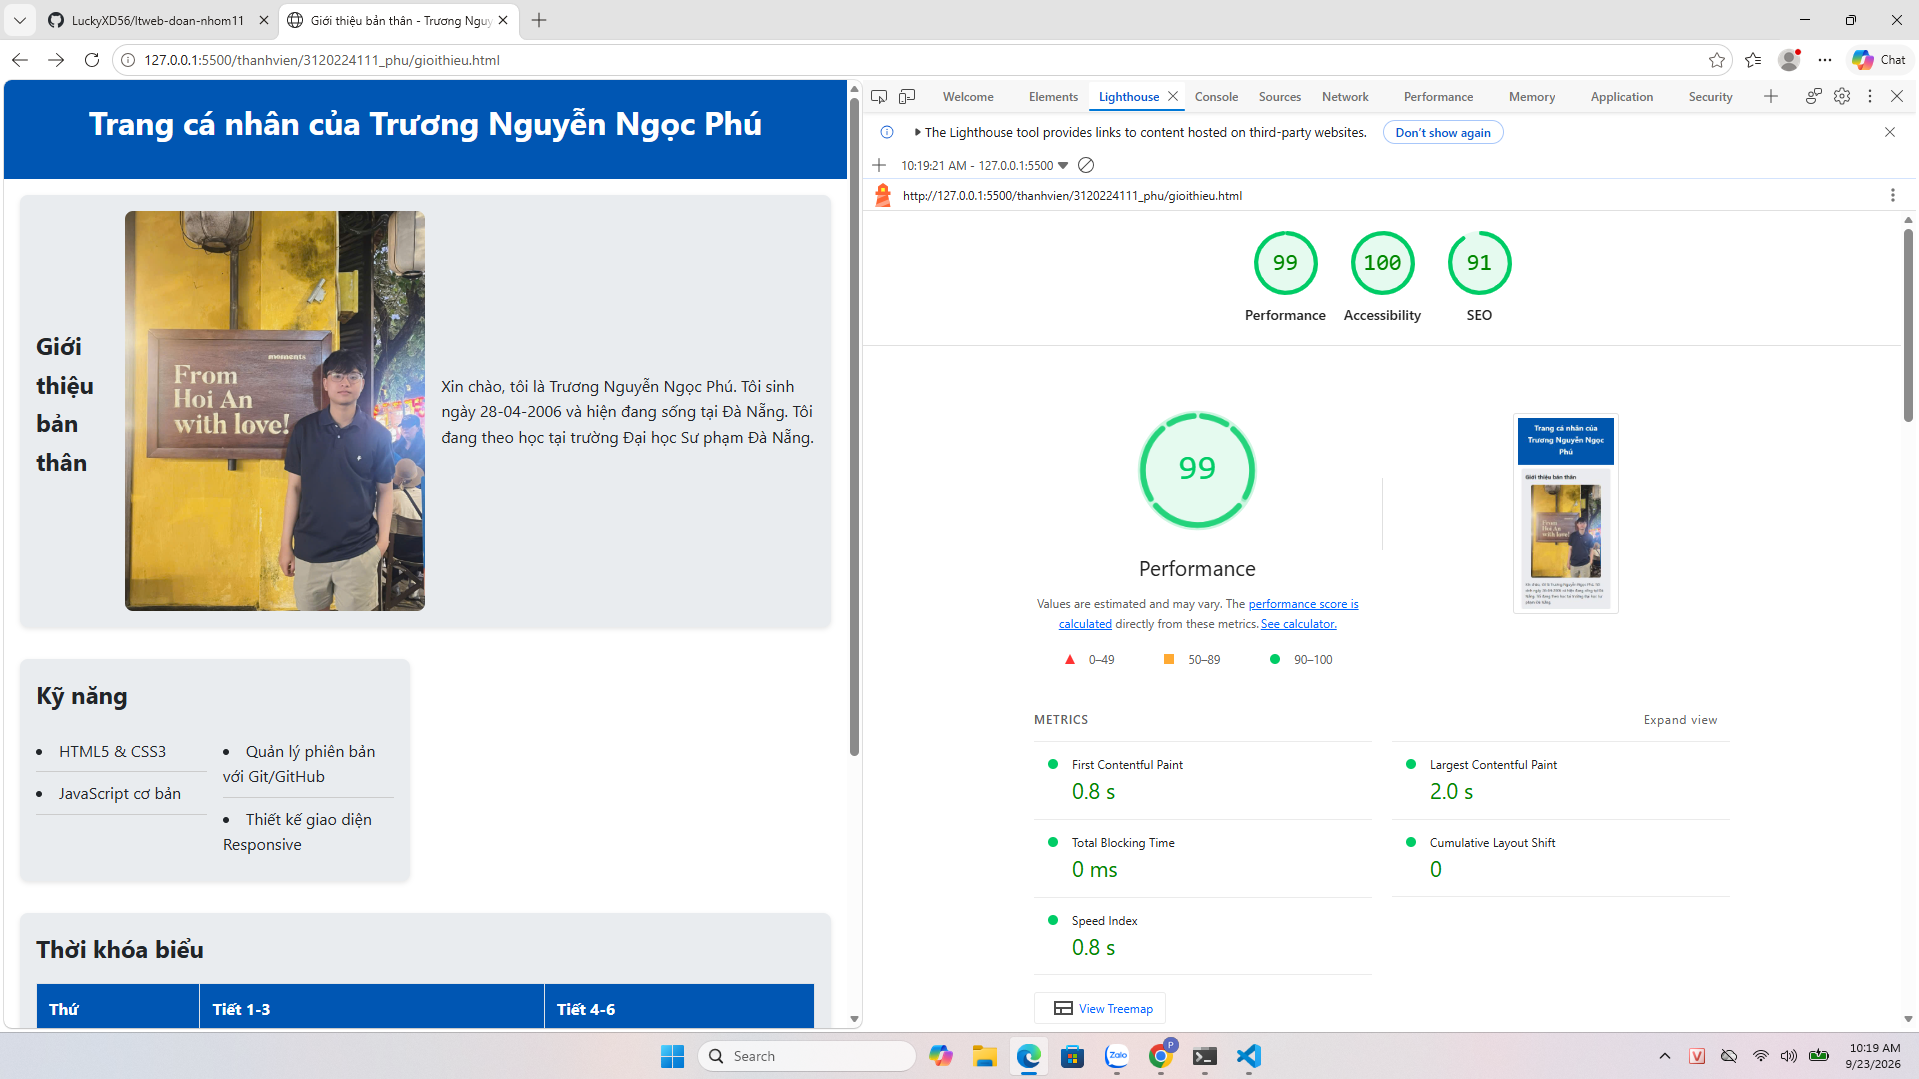
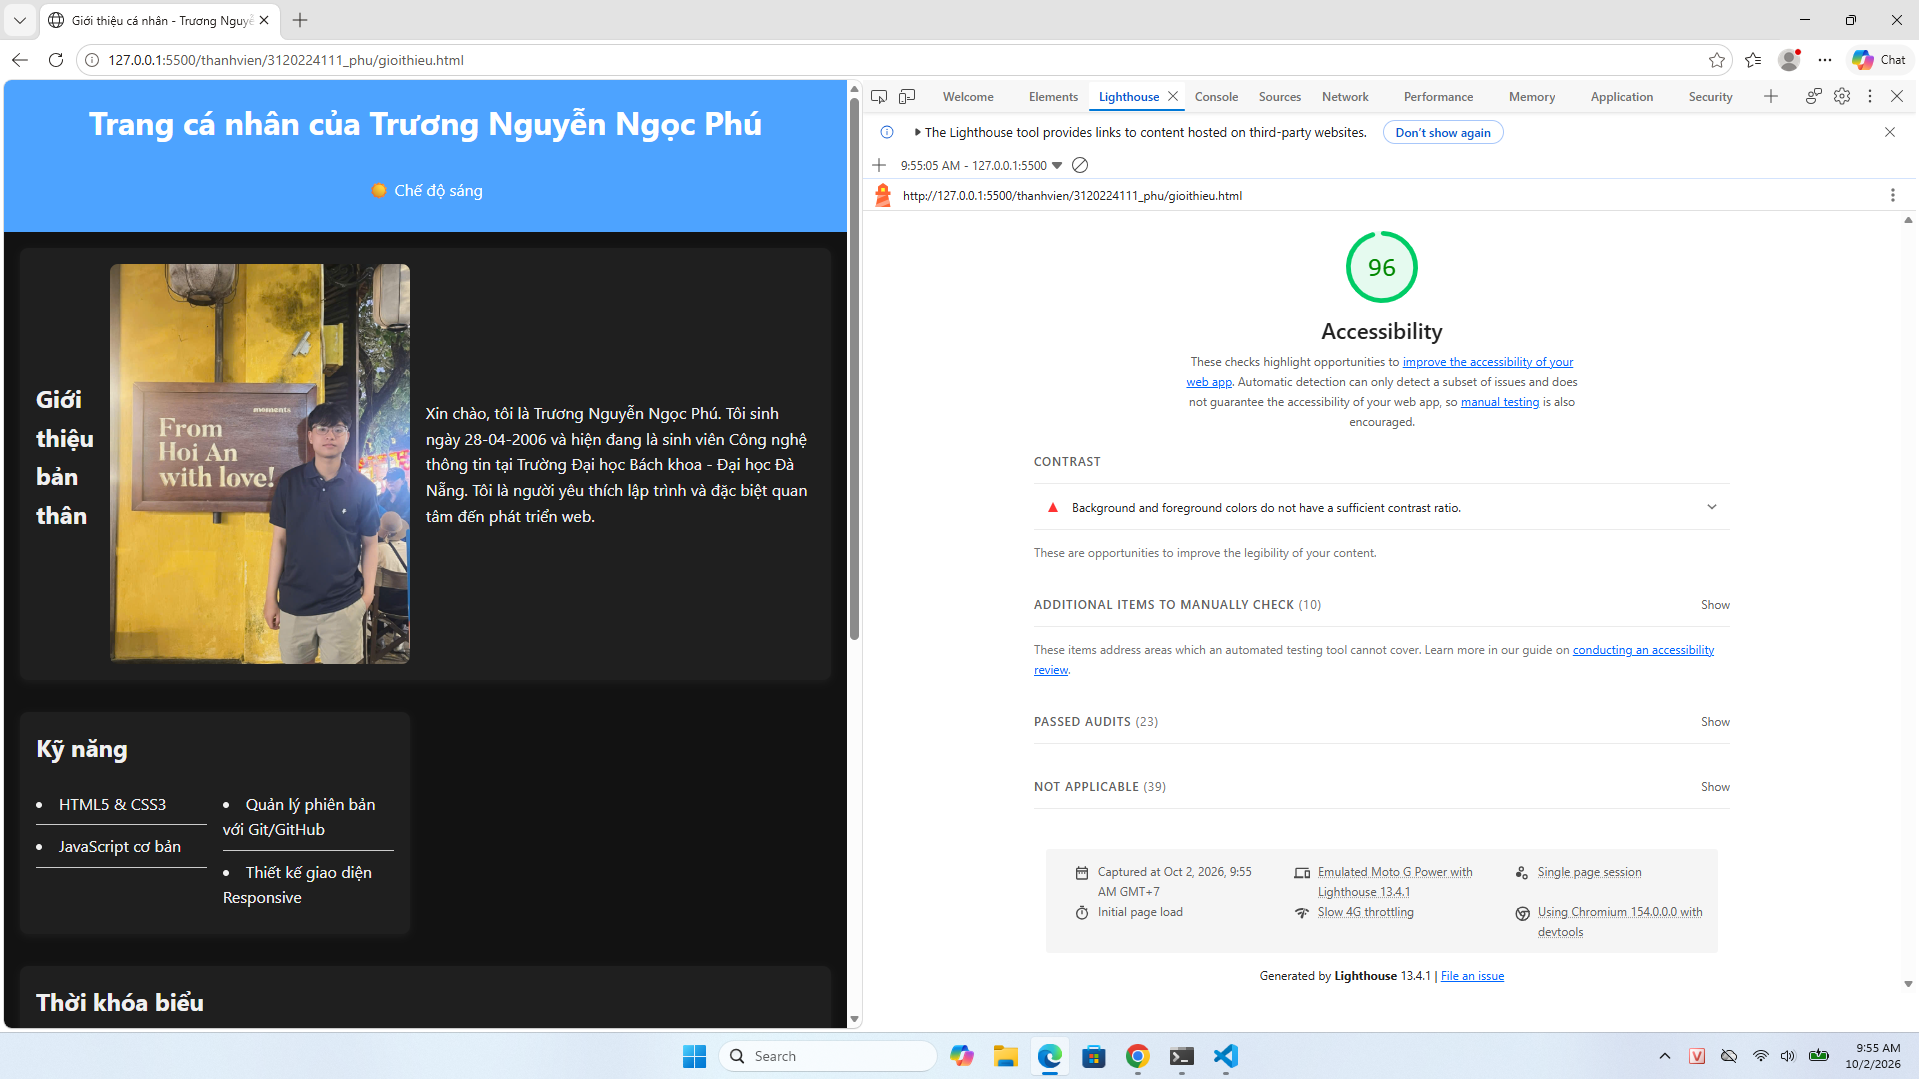
Them tuong tac doi giao dien sang toi va sao chep email cho trang ca nhan cua Phu

diff --git a/thanhvien/3120224111_phu/gioithieu.html b/thanhvien/3120224111_phu/gioithieu.html
@@ -1,57 +1,76 @@
 <!DOCTYPE html>
 <html lang="vi">
 <head>
-    <meta charset="UTF-8">
-    <meta name="viewport" content="width=device-width, initial-scale=1.0">
-    <meta name="description" content="Trang gi?i thi?u c nhn Truong Nguy?n Ng?c Ph">`n    <title>Giá»›i thiá»‡u báº£n thÃ¢n - TrÆ°Æ¡ng Nguyá»…n Ngá»c PhÃº</title>
-    <link rel="stylesheet" href="../../css/style.css">`n    <link rel="stylesheet" href="style.css">
+  <meta charset="UTF-8">
+  <meta name="viewport" content="width=device-width, initial-scale=1.0">
+  <meta name="description" content="Trang giới thiệu cá nhân Trương Nguyễn Ngọc Phú">
+  <title>Giới thiệu cá nhân - Trương Nguyễn Ngọc Phú</title>
+  <link rel="stylesheet" href="style.css">
 </head>
 <body>
-    <header>
-        <h1>Trang cÃ¡ nhÃ¢n cá»§a TrÆ°Æ¡ng Nguyá»…n Ngá»c PhÃº</h1>
-    </header>
-    <main>
-        <section id="gioi-thieu">
-            <h2>Giá»›i thiá»‡u báº£n thÃ¢n</h2>
-            <img src="avatar.jpg" alt="áº¢nh chÃ¢n dung cá»§a TrÆ°Æ¡ng Nguyá»…n Ngá»c PhÃº" class="profile-img">
-            <p>Xin chÃ o, tÃ´i lÃ  TrÆ°Æ¡ng Nguyá»…n Ngá»c PhÃº. TÃ´i sinh ngÃ y 28-04-2006 vÃ  hiá»‡n Ä‘ang sá»‘ng táº¡i ÄÃ  Náºµng. TÃ´i Ä‘ang theo há»c táº¡i trÆ°á»ng Äáº¡i há»c SÆ° pháº¡m ÄÃ  Náºµng.</p>
-        </section>
+  <header>
+    <h1>Trang cá nhân của Trương Nguyễn Ngọc Phú</h1>
+    <button type="button" id="nut-doi-giao-dien" aria-pressed="false">
+      🌙 Chế độ tối
+    </button>
+  </header>
 
-        <section id="ky-nang">
-            <h2>Ká»¹ nÄƒng</h2>
-            <ul class="skills-list">
-                <li>HTML5 & CSS3</li>
-                <li>JavaScript cÆ¡ báº£n</li>
-                <li>Quáº£n lÃ½ phiÃªn báº£n vá»›i Git/GitHub</li>
-                <li>Thiáº¿t káº¿ giao diá»‡n Responsive</li>
-            </ul>
-        </section>
+  <main>
+    <section id="gioi-thieu">
+      <h2>Giới thiệu bản thân</h2>
+      <img src="avatar.jpg" alt="Chân dung của Trương Nguyễn Ngọc Phú" class="profile-img">
+      <p>Xin chào, tôi là Trương Nguyễn Ngọc Phú. Tôi sinh ngày 28-04-2006 và hiện đang là
+        sinh viên Công nghệ thông tin tại Trường Đại học Bách khoa - Đại học Đà Nẵng.
+        Tôi là người yêu thích lập trình và đặc biệt quan tâm đến phát triển web.</p>
+    </section>
 
-        <section id="thoi-khoa-bieu">
-            <h2>Thá»i khÃ³a biá»ƒu</h2>
-            <div class="table-container">
-                <table>
-                    <thead>
-                        <tr>
-                            <th>Thá»©</th>
-                            <th>Tiáº¿t 1-3</th>
-                            <th>Tiáº¿t 4-6</th>
-                        </tr>
-                    </thead>
-                    <tbody>
-                        <tr><td>Thá»© 2</td><td>Láºp trÃ¬nh Web</td><td>ToÃ¡n rá»i ráº¡c</td></tr>
-                        <tr><td>Thá»© 3</td><td>Cáº¥u trÃºc dá»¯ liá»‡u</td><td>Tiáº¿ng Anh</td></tr>
-                        <tr><td>Thá»© 4</td><td>Láºp trÃ¬nh Web</td><td>Thá»ƒ dá»¥c</td></tr>
-                        <tr><td>Thá»© 5</td><td>Há»‡ Ä‘iá»u hÃ nh</td><td>ToÃ¡n rá»i ráº¡c</td></tr>
-                        <tr><td>Thá»© 6</td><td>Tiáº¿ng Anh</td><td>Tá»± há»c</td></tr>
-                    </tbody>
-                </table>
-            </div>
-        </section>
-    </main>
-    <footer>
-        <p>&copy; 2026 TrÆ°Æ¡ng Nguyá»…n Ngá»c PhÃº. <a href="#gioi-thieu">Vá» Ä‘áº§u trang</a></p>
-    </footer>
+    <section id="ky-nang">
+      <h2>Kỹ năng</h2>
+      <ul class="skills-list">
+        <li>HTML5 &amp; CSS3</li>
+        <li>JavaScript cơ bản</li>
+        <li>Quản lý phiên bản với Git/GitHub</li>
+        <li>Thiết kế giao diện Responsive</li>
+      </ul>
+    </section>
+
+    <section id="thoi-khoa-bieu">
+      <h2>Thời khóa biểu</h2>
+      <div class="table-container">
+        <table>
+          <thead>
+            <tr>
+              <th>Thứ</th>
+              <th>Tiết 1-3</th>
+              <th>Tiết 4-6</th>
+            </tr>
+          </thead>
+          <tbody>
+            <tr><td>Thứ 2</td><td>Lập trình Web</td><td>Toán rời rạc</td></tr>
+            <tr><td>Thứ 3</td><td>Cấu trúc dữ liệu</td><td>Tiếng Anh</td></tr>
+            <tr><td>Thứ 4</td><td>Lập trình Web</td><td>Thể dục</td></tr>
+            <tr><td>Thứ 5</td><td>Hệ điều hành</td><td>Toán rời rạc</td></tr>
+            <tr><td>Thứ 6</td><td>Tiếng Anh</td><td>Tự học</td></tr>
+          </tbody>
+        </table>
+      </div>
+    </section>
+
+    <section id="lien-he">
+      <h2>Liên hệ</h2>
+      <p>
+        Email liên hệ:
+        <span id="email-ca-nhan">phutruong317@gmail.com</span>
+        <button type="button" id="nut-sao-chep-email">📋 Sao chép</button>
+      </p>
+      <p id="thong-bao-sao-chep" role="status" aria-live="polite"></p>
+    </section>
+  </main>
+
+  <footer>
+    <p>&copy; 2026 Trương Nguyễn Ngọc Phú. <a href="#gioi-thieu">Về đầu trang</a></p>
+  </footer>
+
+  <script src="js/canhan.js" defer></script>
 </body>
 </html>
-

diff --git a/thanhvien/3120224111_phu/style.css b/thanhvien/3120224111_phu/style.css
@@ -103,3 +103,94 @@ footer { text-align: center; padding: var(--spacing-unit); background-color: var
     #thoi-khoa-bieu { grid-column: 1 / -1; }
     .skills-list { columns: 2; column-gap: var(--spacing-unit); }
 }
+
+
+
+
+
+/* ============================================================
+   TƯƠNG TÁC 1 — Giao diện tối (đổi giá trị CSS variables)
+   Khi <body> có class .giao-dien-toi, toàn bộ trang tự đổi màu
+   vì các thành phần đều dùng var(--...)
+   ============================================================ */
+body.giao-dien-toi {
+    --primary-color: #4da3ff;
+    --secondary-color: #1f1f1f;
+    --text-color: #f0f0f0;
+    --bg-color: #121212;
+    color-scheme: dark;
+}
+
+/* Bo góc và viền cho section trong chế độ tối để dễ nhìn */
+body.giao-dien-toi section {
+    box-shadow: 0 2px 8px rgba(255, 255, 255, 0.05);
+}
+body.giao-dien-toi tr:nth-child(even) {
+    background-color: #1a1a1a;
+}
+body.giao-dien-toi th,
+body.giao-dien-toi td {
+    border-color: #333;
+}
+
+/* ============================================================
+   Nút "Chế độ tối" và "Sao chép email" — style riêng cho nổi bật
+   ============================================================ */
+#nut-doi-giao-dien,
+#nut-sao-chep-email {
+    padding: 0.5rem 1rem;
+    margin: 0.5rem 0;
+    font-size: 1rem;
+}
+
+/* Nút "Sao chép" nằm cùng dòng với email */
+#nut-sao-chep-email {
+    margin-left: 0.5rem;
+    vertical-align: middle;
+}
+
+/* Viền focus rõ ràng cho bàn phím */
+#nut-doi-giao-dien:focus-visible,
+#nut-sao-chep-email:focus-visible {
+    outline: 3px solid #ffc107;
+    outline-offset: 2px;
+}
+
+/* ============================================================
+   TƯƠNG TÁC 2 — Vùng thông báo sao chép email
+   ============================================================ */
+#thong-bao-sao-chep {
+    min-height: 1.4em;
+    margin-top: 0.5rem;
+    font-weight: 600;
+    transition: opacity 0.3s ease;
+}
+.thong-bao--thanh-cong { color: #1e7a3a; }
+.thong-bao--loi        { color: #b32d2d; }
+
+/* Màu thông báo trong chế độ tối */
+body.giao-dien-toi .thong-bao--thanh-cong { color: #6ee7a0; }
+body.giao-dien-toi .thong-bao--loi        { color: #ff9090; }
+
+/* ============================================================
+   Responsive — mobile 360px
+   ============================================================ */
+@media (max-width: 400px) {
+    body { font-size: 16px; }
+
+    #nut-doi-giao-dien,
+    #nut-sao-chep-email {
+        display: block;
+        width: 100%;
+        margin: 0.5rem 0;
+    }
+
+    #nut-sao-chep-email {
+        margin-left: 0;
+    }
+
+    /* Email dài thì xuống dòng gọn gàng */
+    #email-ca-nhan {
+        word-break: break-all;
+    }
+}

diff --git a/thanhvien/3120224111_phu/js/canhan.js b/thanhvien/3120224111_phu/js/canhan.js
@@ -1,0 +1,60 @@
+/**
+ * canhan.js — Trang cá nhân Trương Nguyễn Ngọc Phú (MSSV 3120224111)
+ *
+ * Tương tác 1: Nút "Chế độ tối" bật/tắt giao diện sáng-tối, ghi nhớ lựa chọn
+ *              bằng localStorage để lần sau mở trang vẫn giữ nguyên.
+ * Tương tác 2: Nút "Sao chép email" dùng navigator.clipboard.writeText để
+ *              sao chép email, hiện thông báo và tự tắt sau 2 giây.
+ *
+ * Cách thử: Mở gioithieu.html bằng Live Server → bấm "Chế độ tối" → tải lại (F5)
+ *           → giao diện vẫn tối. Nhấn Tab để focus, Enter/Space để kích hoạt.
+ *           Bấm "Sao chép email" → dán vào Notepad để kiểm tra.
+ */
+
+// ============ TƯƠNG TÁC 1: ĐỔI GIAO DIỆN SÁNG / TỐI ============
+
+const nutDoiGiaoDien = document.getElementById('nut-doi-giao-dien');
+const KHOA_LUU = 'phu-giao-dien';
+
+function apDungGiaoDien(trangThai) {
+  const laToi = trangThai === 'toi';
+  document.body.classList.toggle('giao-dien-toi', laToi);
+  nutDoiGiaoDien.textContent = laToi ? '☀ Chế độ sáng' : '🌙 Chế độ tối';
+  nutDoiGiaoDien.setAttribute('aria-pressed', String(laToi));
+}
+
+const trangThaiBanDau = localStorage.getItem(KHOA_LUU) || 'sang';
+apDungGiaoDien(trangThaiBanDau);
+
+nutDoiGiaoDien.addEventListener('click', () => {
+  const dangToi = document.body.classList.contains('giao-dien-toi');
+  const trangThaiMoi = dangToi ? 'sang' : 'toi';
+  localStorage.setItem(KHOA_LUU, trangThaiMoi);
+  apDungGiaoDien(trangThaiMoi);
+});
+
+// ============ TƯƠNG TÁC 2: SAO CHÉP EMAIL ============
+
+const nutSaoChep = document.getElementById('nut-sao-chep-email');
+const emailEl = document.getElementById('email-ca-nhan');
+const thongBao = document.getElementById('thong-bao-sao-chep');
+
+nutSaoChep.addEventListener('click', async () => {
+  const email = emailEl.textContent.trim();
+  try {
+    await navigator.clipboard.writeText(email);
+    thongBao.textContent = '✅ Đã sao chép: ' + email;
+    thongBao.classList.add('thong-bao--thanh-cong');
+    setTimeout(() => {
+      thongBao.textContent = '';
+      thongBao.classList.remove('thong-bao--thanh-cong');
+    }, 2000);
+  } catch (loi) {
+    thongBao.textContent = '❌ Không sao chép được. Vui lòng chọn thủ công.';
+    thongBao.classList.add('thong-bao--loi');
+    setTimeout(() => {
+      thongBao.textContent = '';
+      thongBao.classList.remove('thong-bao--loi');
+    }, 2500);
+  }
+});
